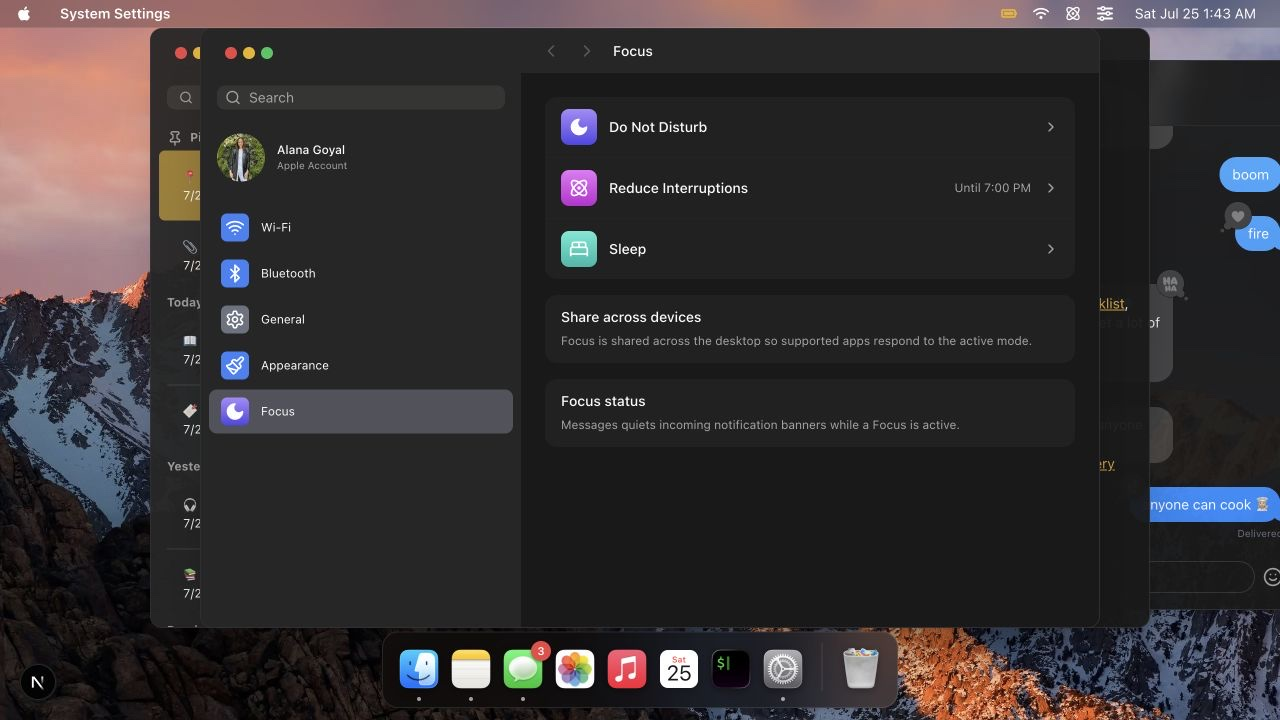
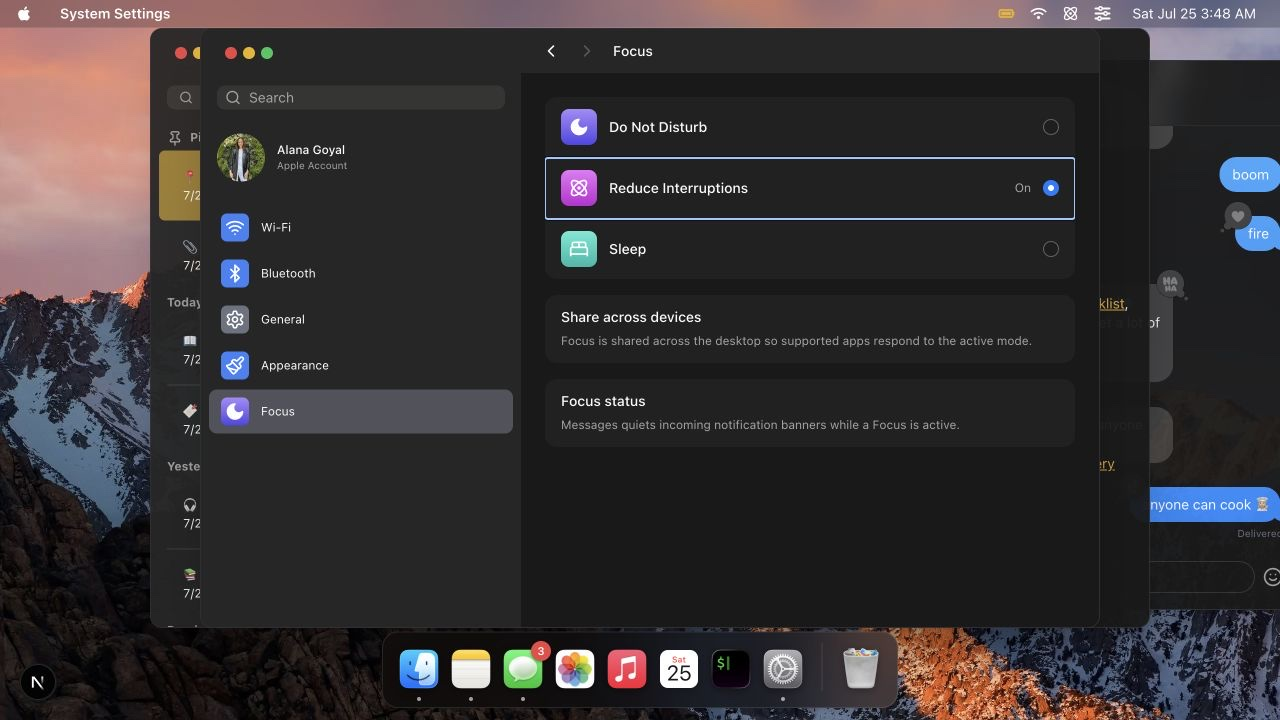
Use radio controls for Focus settings

Changed region(s): [[0.4375, 0.2139, 0.8438, 0.3056], [0.7812, 0.0, 0.9375, 0.0306]]

diff --git a/components/apps/settings/panels/focus.tsx b/components/apps/settings/panels/focus.tsx
@@ -3,7 +3,6 @@
 import {
   Atom,
   BedDouble,
-  ChevronRight,
   Moon,
   type LucideIcon,
 } from "lucide-react";
@@ -71,7 +70,11 @@ export function FocusPanel({ isMobile = false }: FocusPanelProps) {
     >
       {isMobile && <h1 className="text-xl font-bold">Focus</h1>}
 
-      <div className="overflow-hidden rounded-xl bg-muted/60">
+      <div
+        role="radiogroup"
+        aria-label="Focus modes"
+        className="overflow-hidden rounded-xl bg-muted/60"
+      >
         {focusRows.map((row, index) => {
           const isActive = focusMode === row.id;
           const Icon = row.icon;
@@ -80,7 +83,8 @@ export function FocusPanel({ isMobile = false }: FocusPanelProps) {
             <button
               key={row.id}
               type="button"
-              aria-pressed={isActive}
+              role="radio"
+              aria-checked={isActive}
               onClick={() =>
                 setFocusMode(isActive ? "off" : row.id)
               }
@@ -121,10 +125,19 @@ export function FocusPanel({ isMobile = false }: FocusPanelProps) {
                   {formatFocusStatus(focusEndsAt)}
                 </span>
               )}
-              <ChevronRight
+              <span
                 aria-hidden="true"
-                className="h-4 w-4 shrink-0 text-muted-foreground"
-              />
+                className={cn(
+                  "flex h-4 w-4 shrink-0 items-center justify-center rounded-full border transition-colors",
+                  isActive
+                    ? "border-[#0A7CFF] bg-[#0A7CFF]"
+                    : "border-muted-foreground/50 bg-background/40"
+                )}
+              >
+                {isActive && (
+                  <span className="h-1.5 w-1.5 rounded-full bg-white" />
+                )}
+              </span>
             </button>
           );
         })}

diff --git a/docs/design-system.md b/docs/design-system.md
@@ -358,7 +358,7 @@ Notification Center cards share the same outer `mb-1.5 rounded-md p-3` geometry.
 
 Status icons that expose a dedicated native menu should use their own popover instead of opening the full Control Center. The active Focus icon follows this pattern through `FocusMenu`, including direct mode changes and durable timed choices.
 
-Focus state and scheduled expiration live in `SystemSettingsContext`, not the popover, so duration choices survive menu dismissal, Settings navigation, reloads, and background tabs. `Focus Settings…` should deep-link to the Focus category in System Settings, where the same shared state controls the three Focus modes and shows any scheduled end time.
+Focus state and scheduled expiration live in `SystemSettingsContext`, not the popover, so duration choices survive menu dismissal, Settings navigation, reloads, and background tabs. `Focus Settings…` should deep-link to the Focus category in System Settings, where the three modes form a single radio group backed by the same shared state. Selecting the active radio again clears Focus so all modes can be off; an active timed mode shows its scheduled end time.
 
 ### Empty State
 
